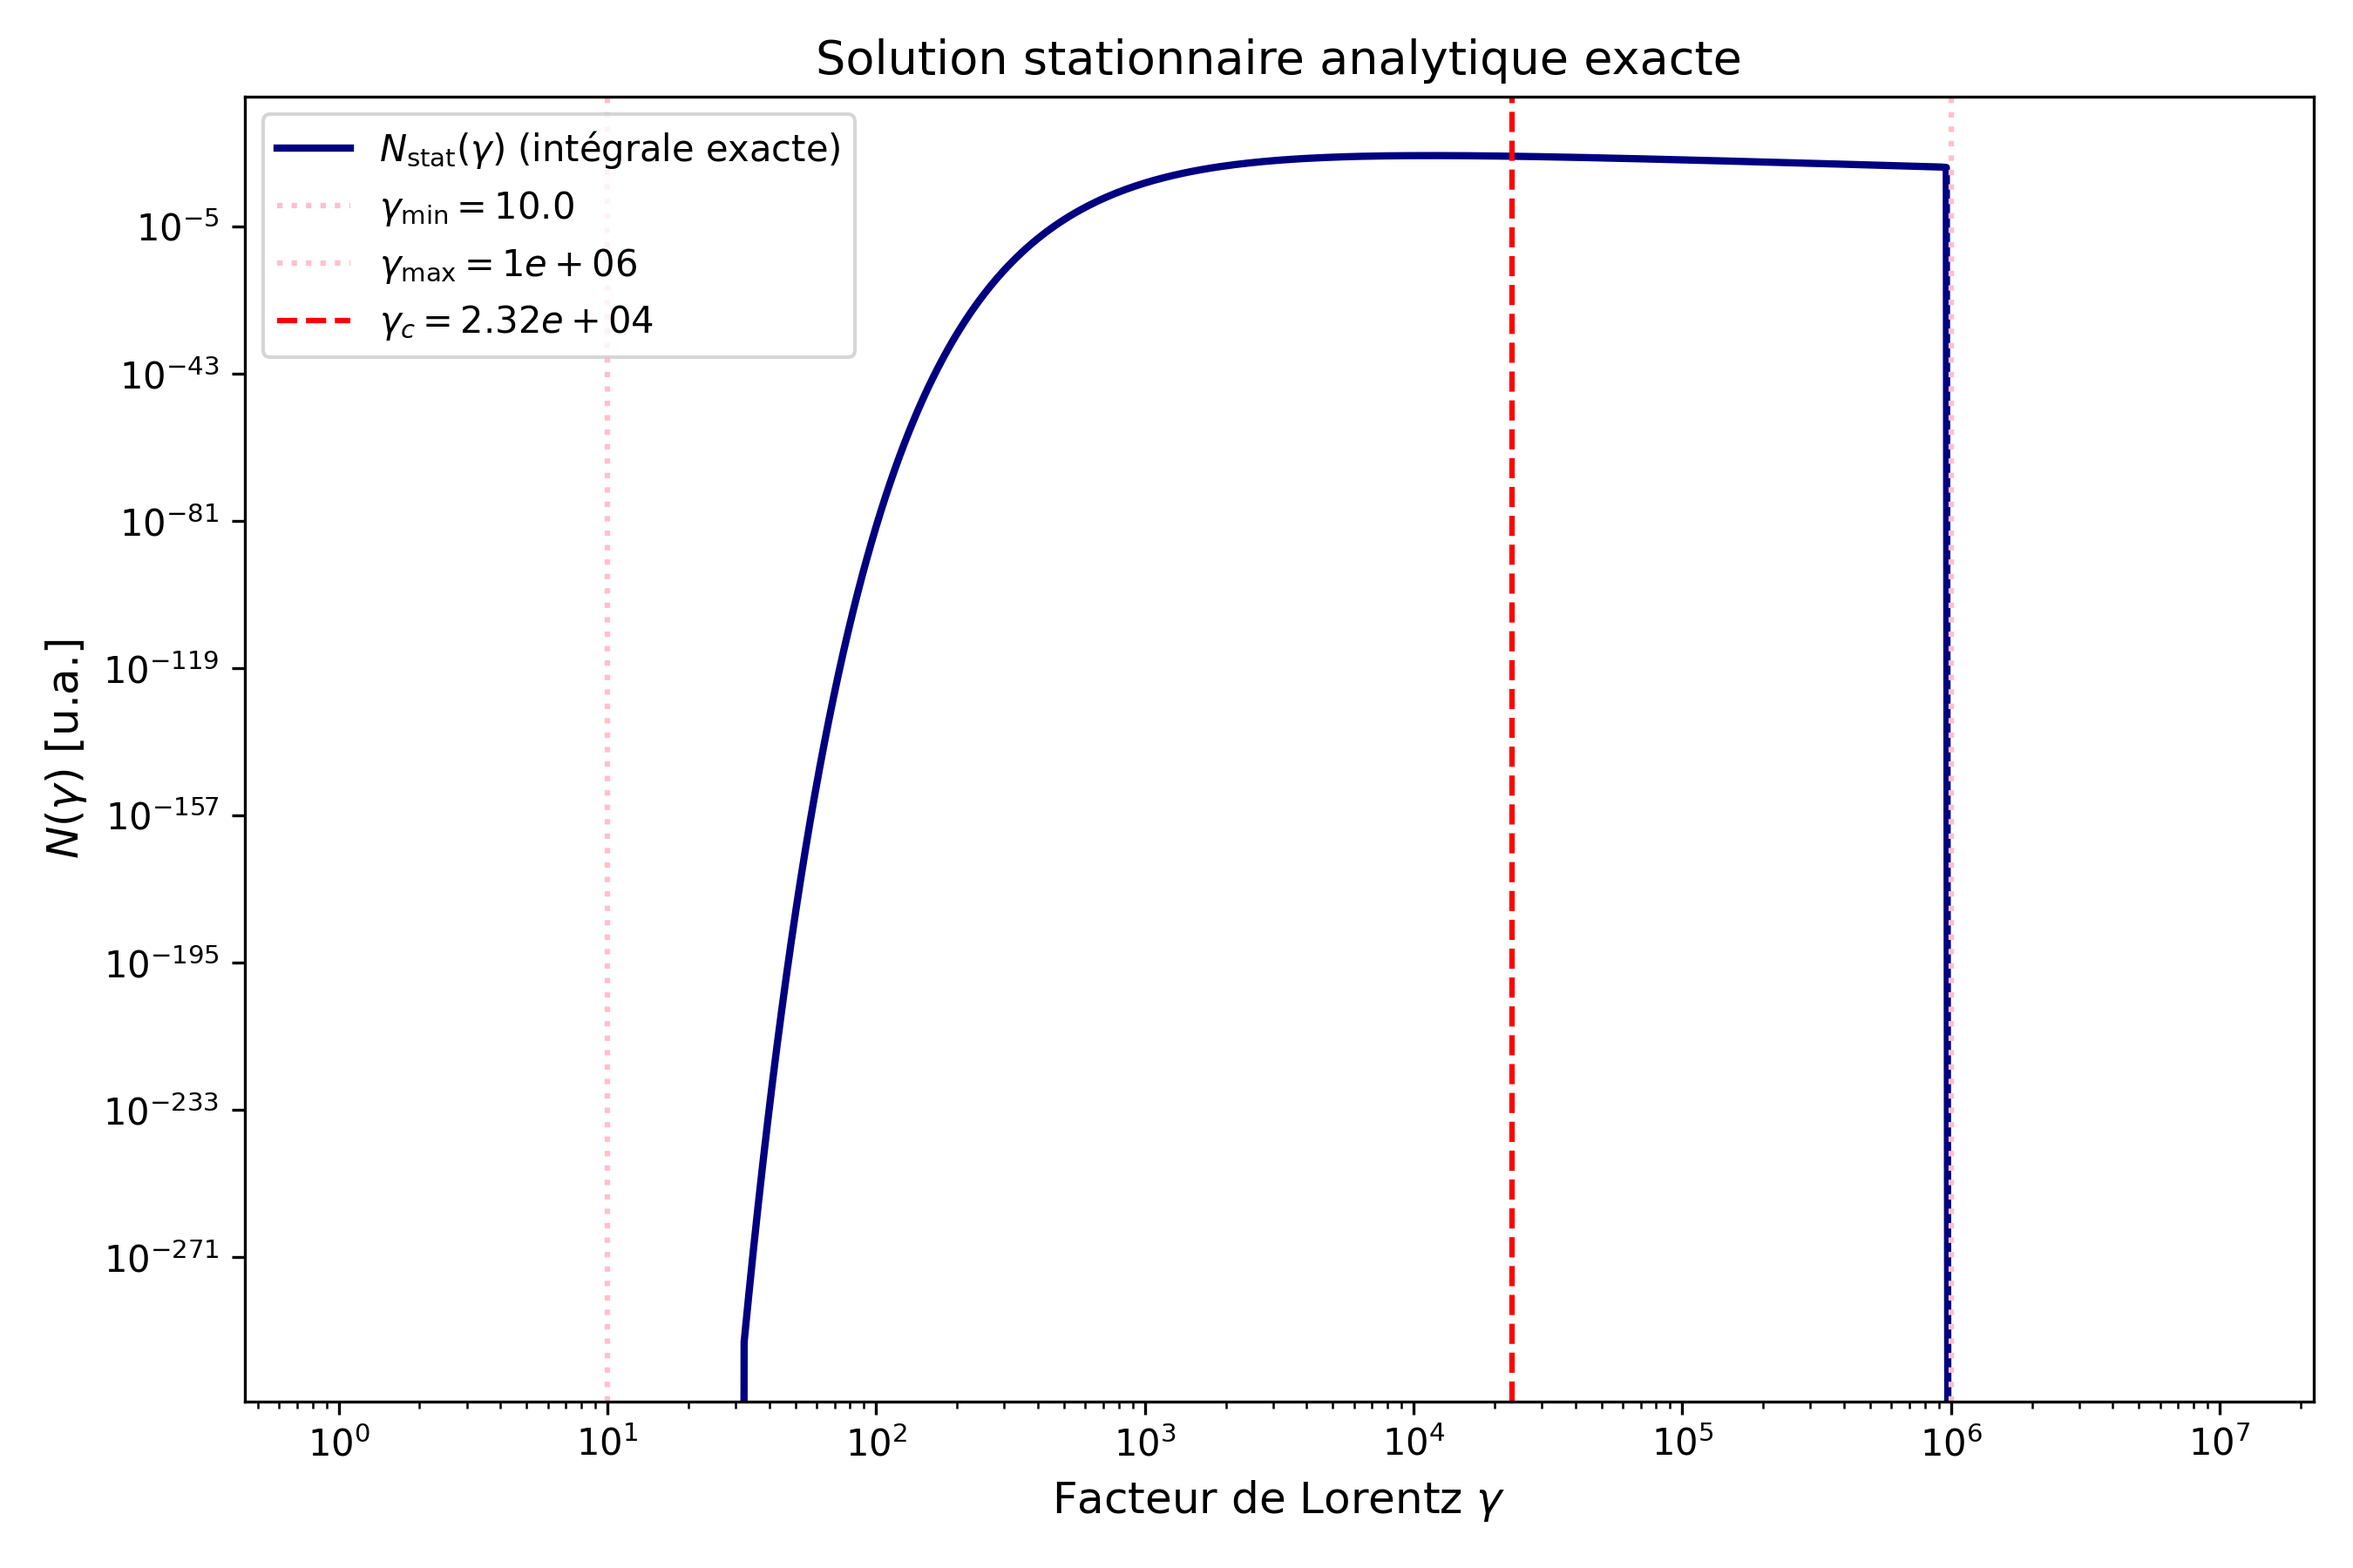
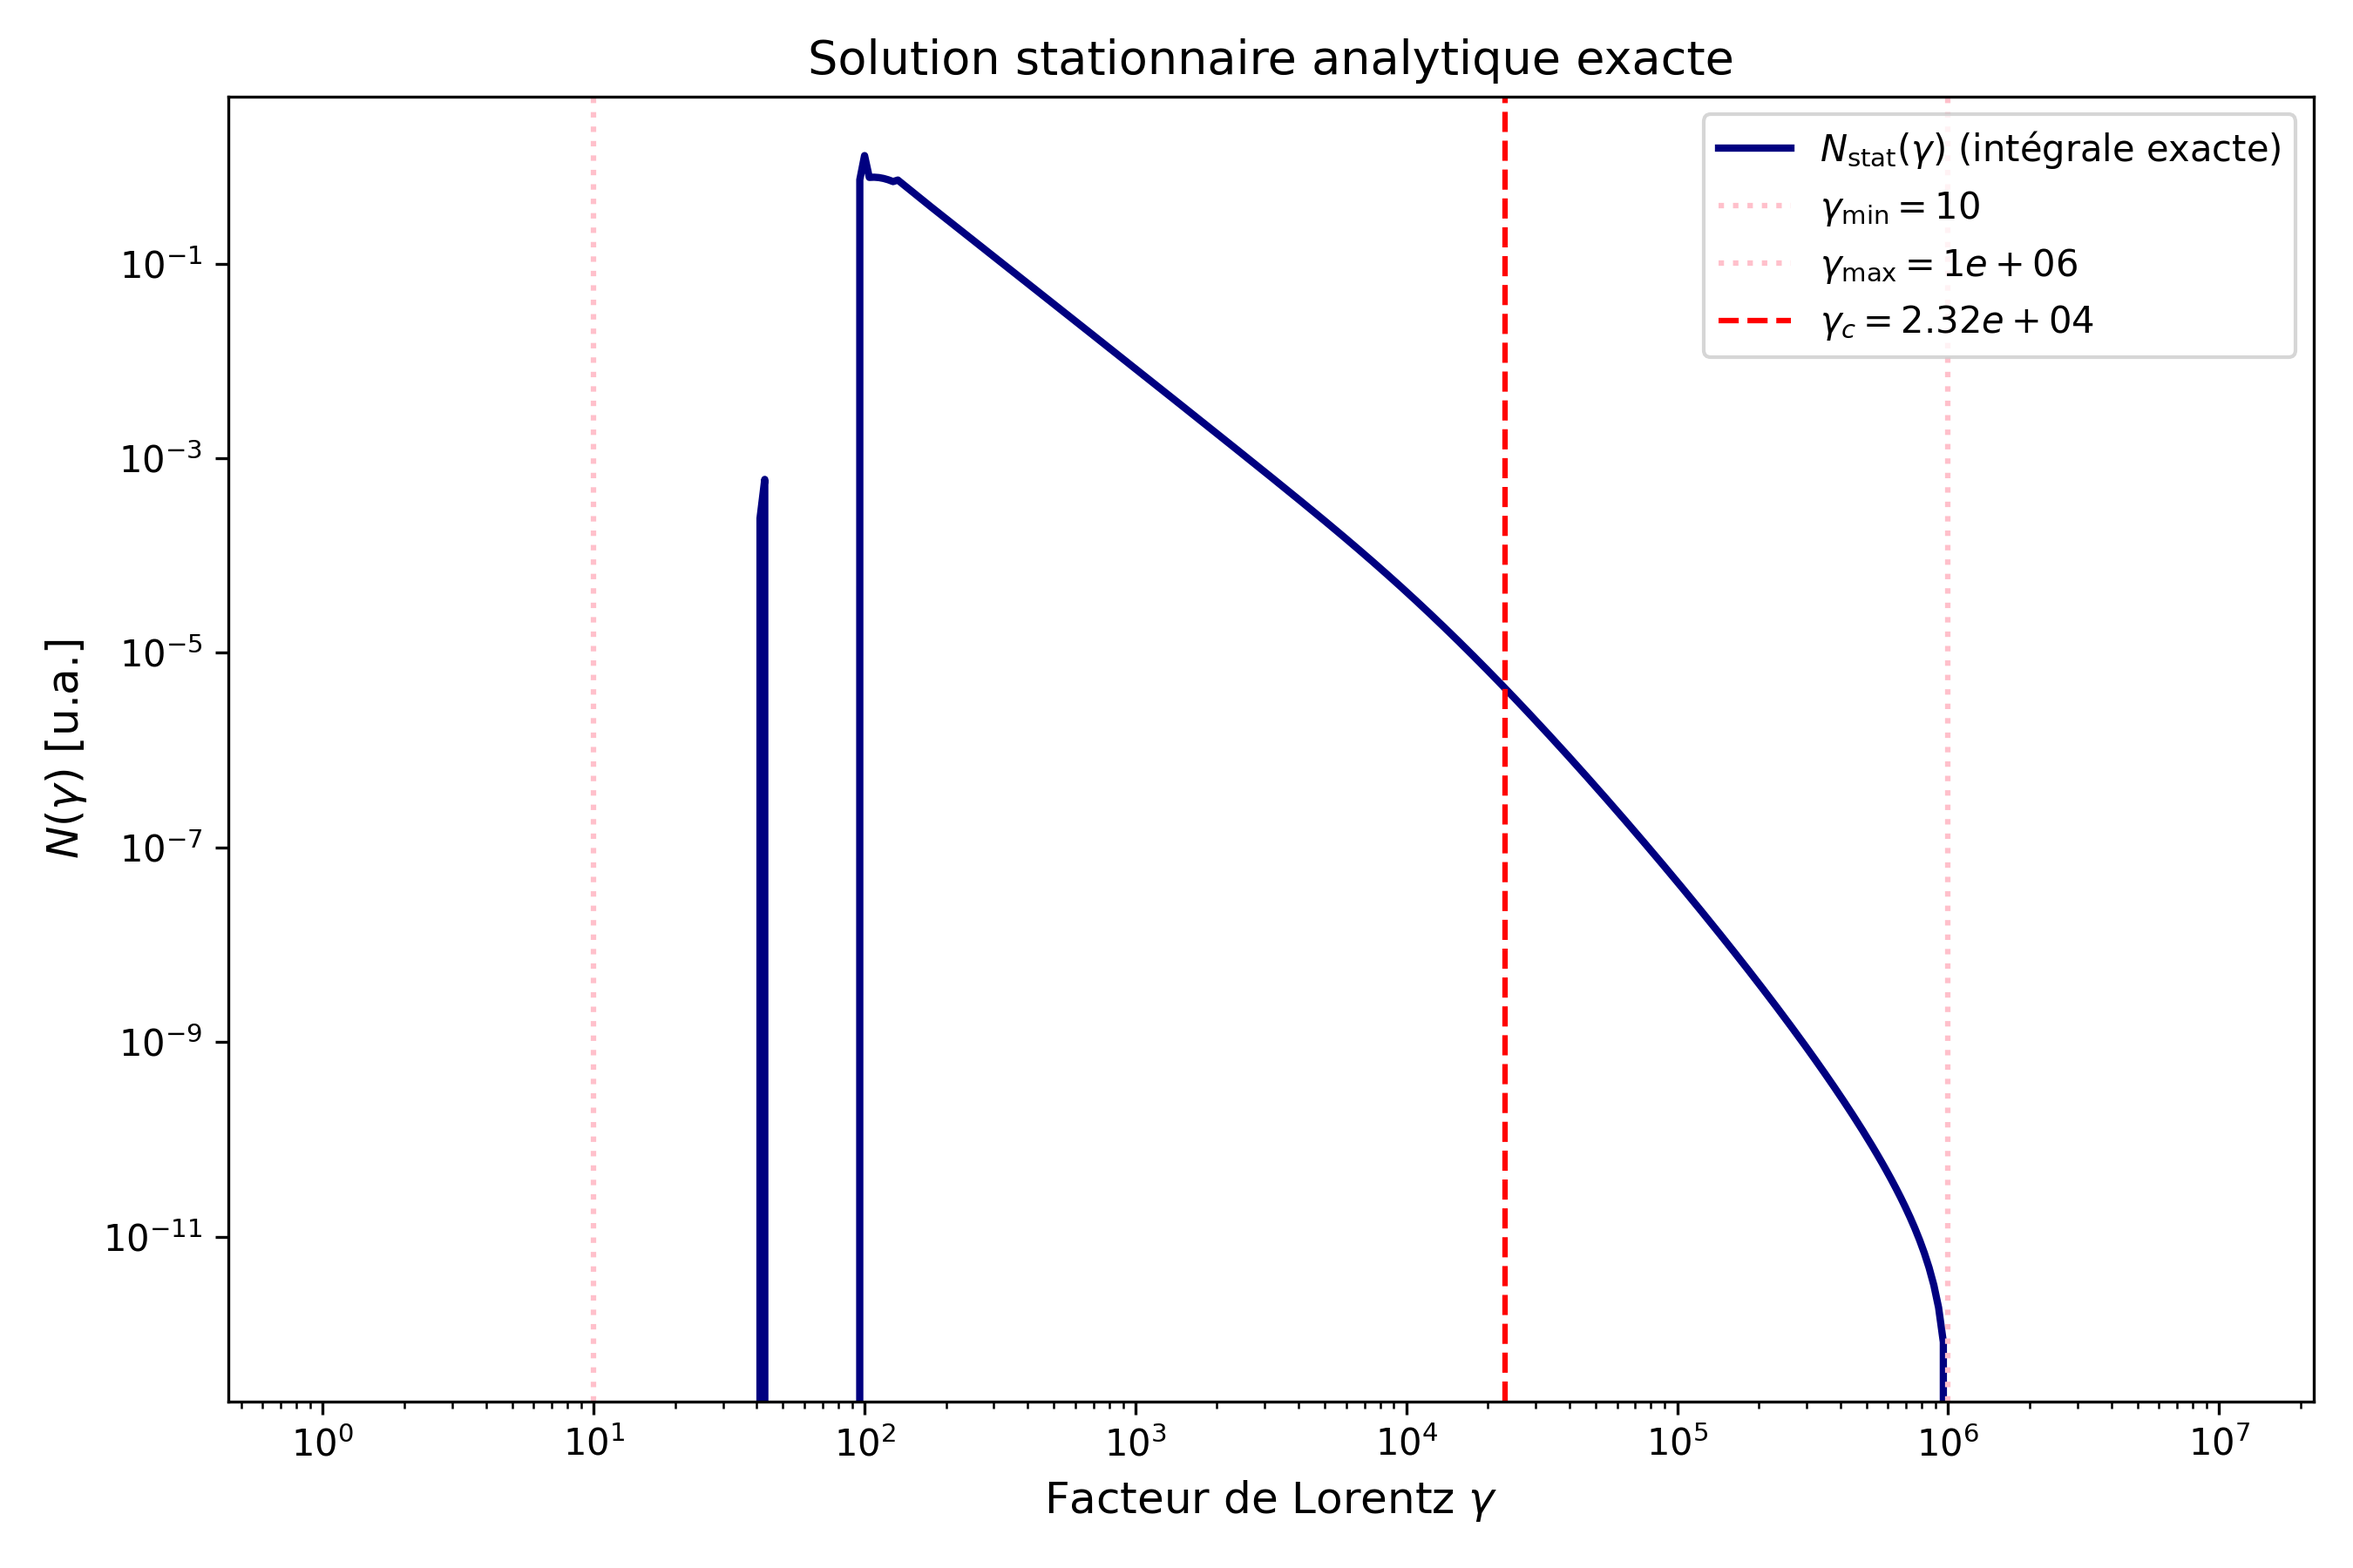
Mise à jour du calcul analytique et ajout des constantes
- Modification de la fonction de calcul de la distribution stationnaire
- Création de src/constants.py pour centraliser les paramètres physiques

diff --git a/src/plot_analytical.py b/src/plot_analytical.py
@@ -2,23 +2,8 @@ import numpy as np
 import matplotlib.pyplot as plt
 from scipy.integrate import quad
 from N_analytical import N_analytical 
+from constant import gamma_c, K, gamma_min, gamma_max, s, Q_0
 
-c = 2.99792458e10       # Vitesse de la lumière (cm/s)
-m_e = 9.10938356e-28    # Masse de l'électron (g)
-sigma_T = 6.6524587e-25 #
-
-B = 1.0                 # Champ magnétique (Gauss)
-R = 1e15                # Taille de la zone d'émission (cm)
-s = 2.2                 # Indice d'injection
-gamma_min = 10.0        # Lorentz factor min
-gamma_max = 1e6         # Lorentz factor max
-Q_0 = 1.0               # Normalisation de l'injection
-
-# 3. Grandeurs physiques dérivées
-u_B = (B**2) / (8 * np.pi)                          # Densité d'énergie magnétique
-K = (4/3) * (sigma_T * c / (m_e * c**2)) * u_B    # Coefficient de perte synchrotron
-t_esc = R / c                                       # Temps d'échappement
-gamma_c = 1.0 / (K * t_esc)
 
 
 gamma = np.logspace(0, 7, 400)
@@ -32,6 +17,7 @@ plt.axvline(gamma_min, color='pink', linestyle=':', label=rf'$\gamma_{{\min}} = 
 plt.axvline(gamma_max, color='pink', linestyle=':', label=rf'$\gamma_{{\max}} = {gamma_max:.0e}$')
 plt.axvline(gamma_c, color='red', linestyle='--', label=rf'$\gamma_c = {gamma_c:.2e}$')
 
+#plt.ylim(10e-5,10e20)
 plt.xlabel(r'Facteur de Lorentz $\gamma$', fontsize=12)
 plt.ylabel(r'$N(\gamma)$ [u.a.]', fontsize=12)
 plt.title(r'Solution stationnaire analytique exacte', fontsize=13)

diff --git a/src/N_analytical.py b/src/N_analytical.py
@@ -1,31 +1,12 @@
 import numpy as np
 import matplotlib.pyplot as plt
 from scipy.integrate import quad
-
-## Define physical constants
-sigma_T = 6.6524e-25  # cm^2
-m_e = 9.1094e-28  # g
-c = 2.9979e10  # cm/s
-
-#constants for the calculation
-
-B = 1 #G
-R = 10e15 #cm
-s = 2 #indice spectral
-gamma_min = 10
-gamma_max = 10e6
-Q_0 = 1 #normalisation de l'injection
-
-#calcul des grandeurs caractéristiques
-u_B = B**2/(8*np.pi) #erg/cm^3
-K = 4*u_B*sigma_T/(3*m_e*c) #s^-1
-t_ad = R/c #s
-gamma_c = 1/K*t_ad #gamma critique
+from constant import gamma_c, K, gamma_min, gamma_max, s, Q_0
 
 #on commence par resoudre la formule en stationnaire
 # Formule du temps de refroidissement selon Ghisellini (2013), Eq. 3.2).   
 
-def integrer (gamma_c, gamma, gamma_max,s , Q_0):
+def integrer (gamma, gamma_c, gamma_max,s , Q_0):
     """
     Integrate de la distribution de puissance.
 
@@ -43,7 +24,9 @@ def integrer (gamma_c, gamma, gamma_max,s , Q_0):
     float
         Valeurs intégrés de la distribution.
     """
-    return (Q_0 * gamma**(- s) * np.exp(-gamma/gamma_max) * np.exp(gamma_c/gamma))
+    Q_gp = Q_0 * (gamma**(-s)) * np.exp(-gamma / gamma_max)
+    exposant = gamma_c / gamma
+    return (Q_gp * np.exp(exposant))
 
 
 def N_analytical(gamma,gamma_c,gamma_min,gamma_max,s,Q_0,K):

diff --git a/src/constant.py b/src/constant.py
@@ -1,0 +1,26 @@
+import numpy as np
+
+# ==========================================
+# 1. Constantes physiques fondamentales (CGS)
+# ==========================================
+sigma_t = 6.6524e-25  # Section efficace de Thomson (cm²)
+m_e = 9.1094e-28      # Masse de l'électron (g)
+C = 2.9979e10         # Vitesse de la lumière (cm/s)
+
+# ==========================================
+# 2. Paramètres du modèle astrophysique
+# ==========================================
+B = 1.0               # Champ magnétique (Gauss)
+R = 10e15             # Taille de la zone d'émission (cm)
+s = 2.0               # Indice spectral d'injection
+gamma_min = 10.0      # Facteur de Lorentz min
+gamma_max = 10e6      # Facteur de Lorentz max
+Q_0 = 1.0             # Normalisation de l'injection
+
+# ==========================================
+# 3. Grandeurs physiques calculées
+# ==========================================
+u_b = B**2 / (8 * np.pi)                        # Densité d'énergie magnétique (erg/cm³)
+K = (4 * u_b * sigma_t) / (3 * m_e * C)          # Coefficient de perte synchrotron (s⁻¹)
+T_ad = R / c                                     # Temps d'échappement (s)
+gamma_c = 1.0 / (K * T_ad)                       # Facteur de Lorentz critique
